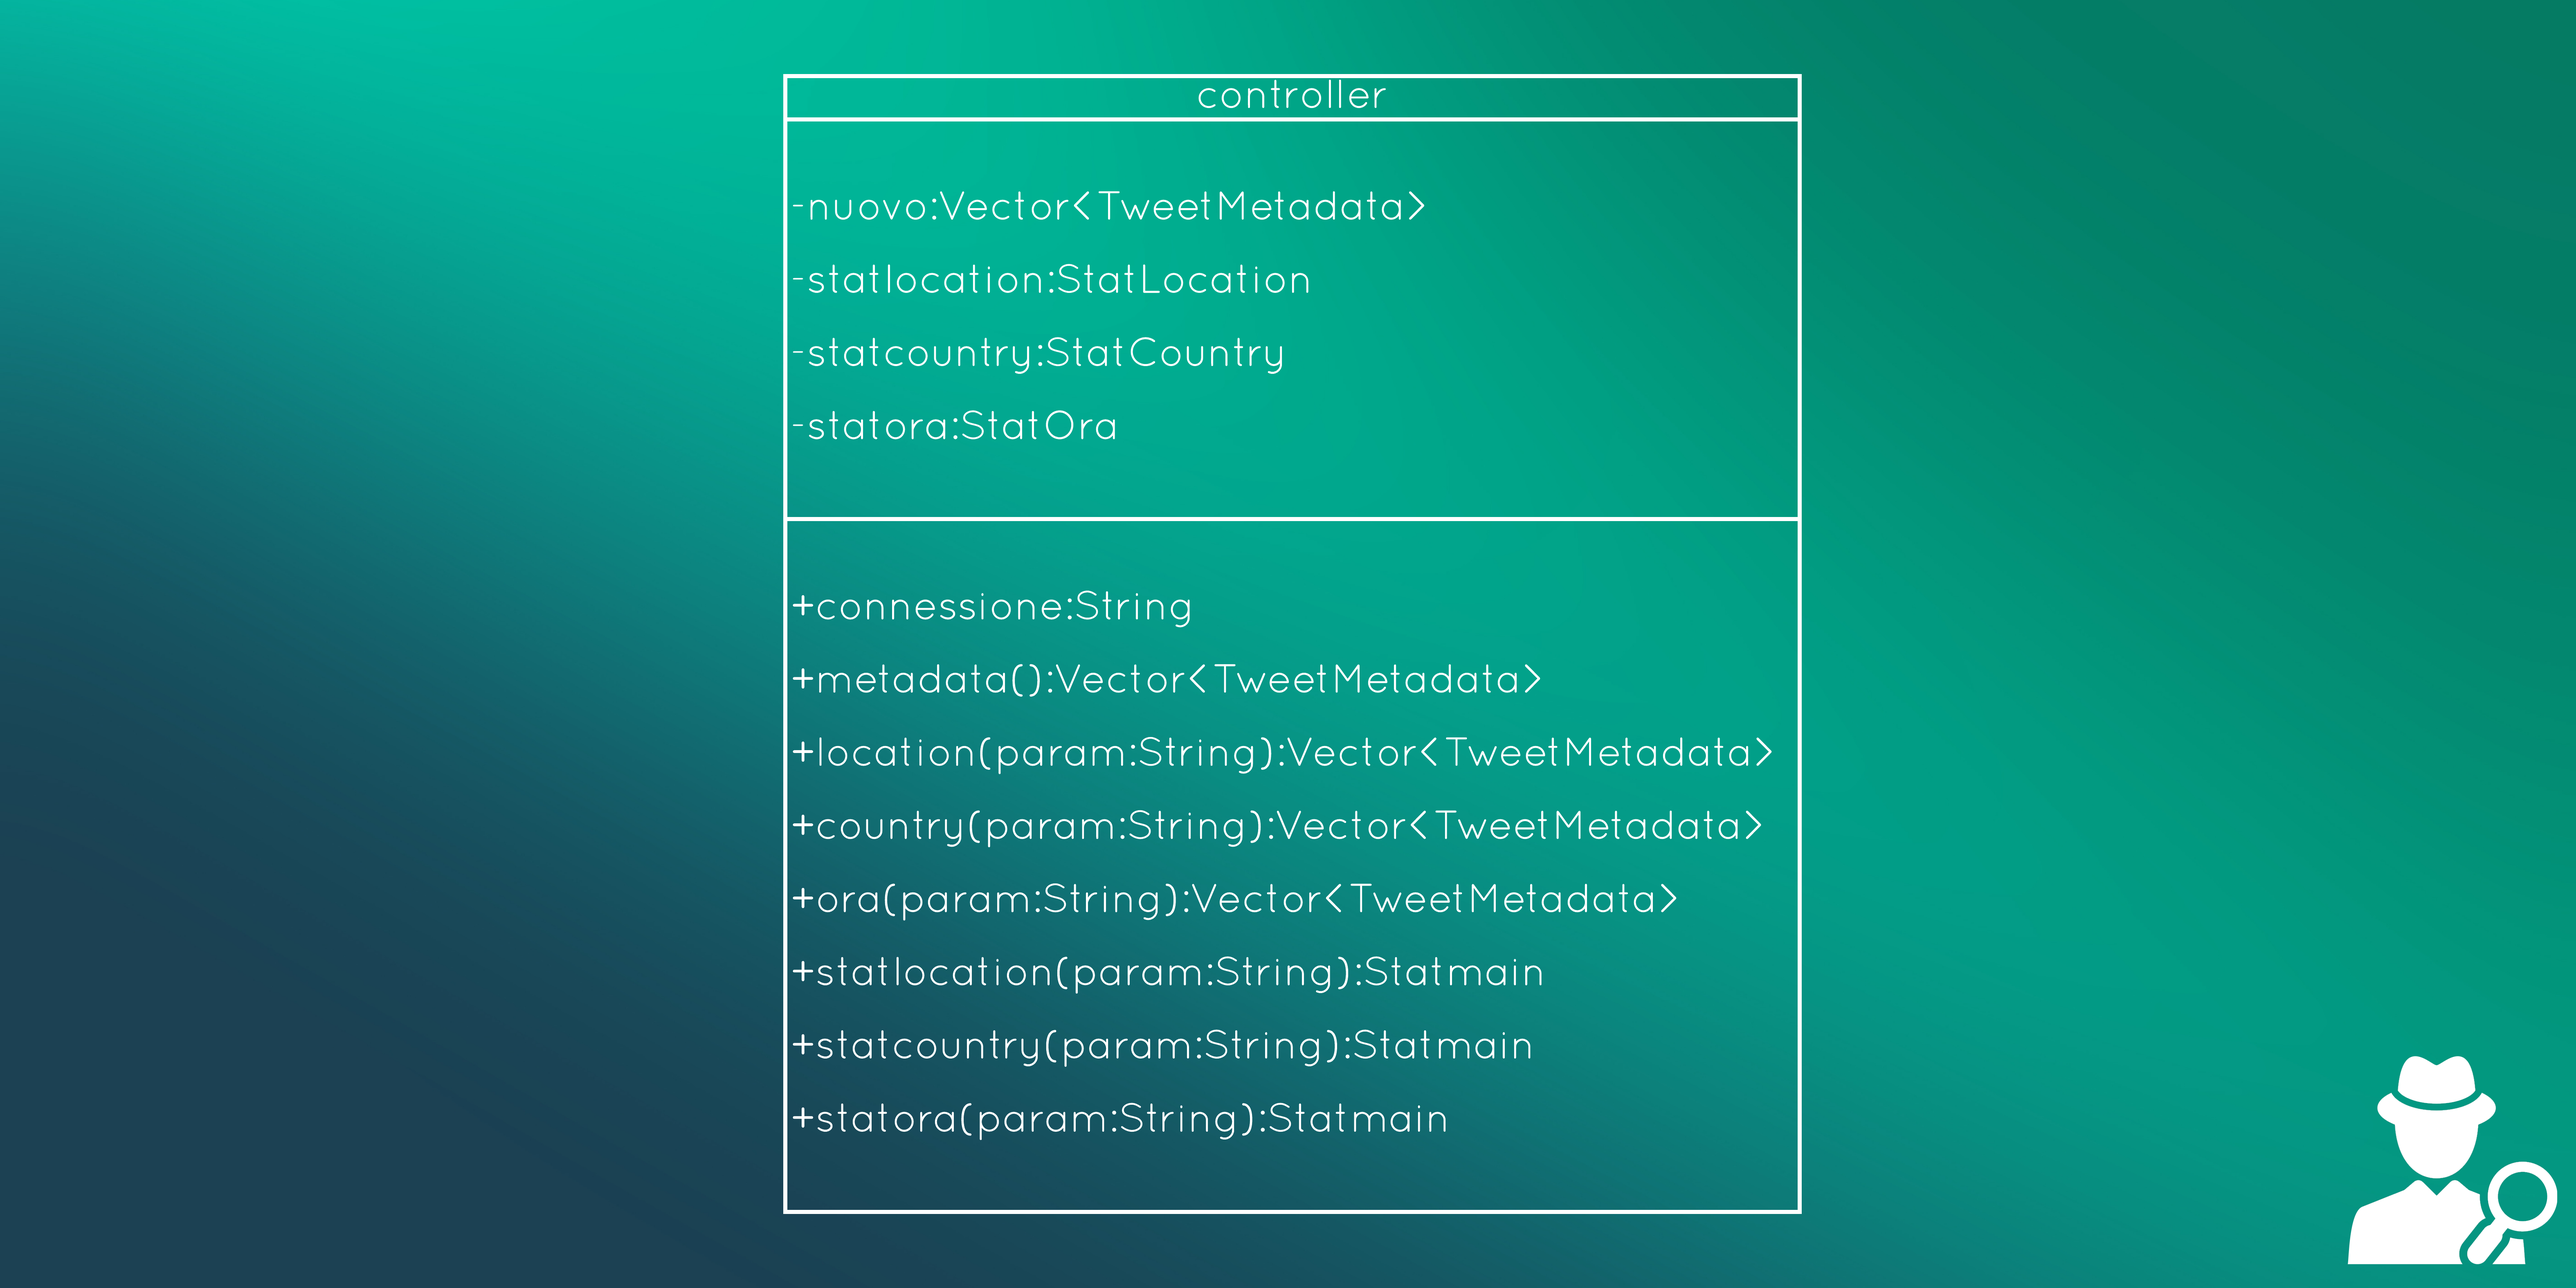
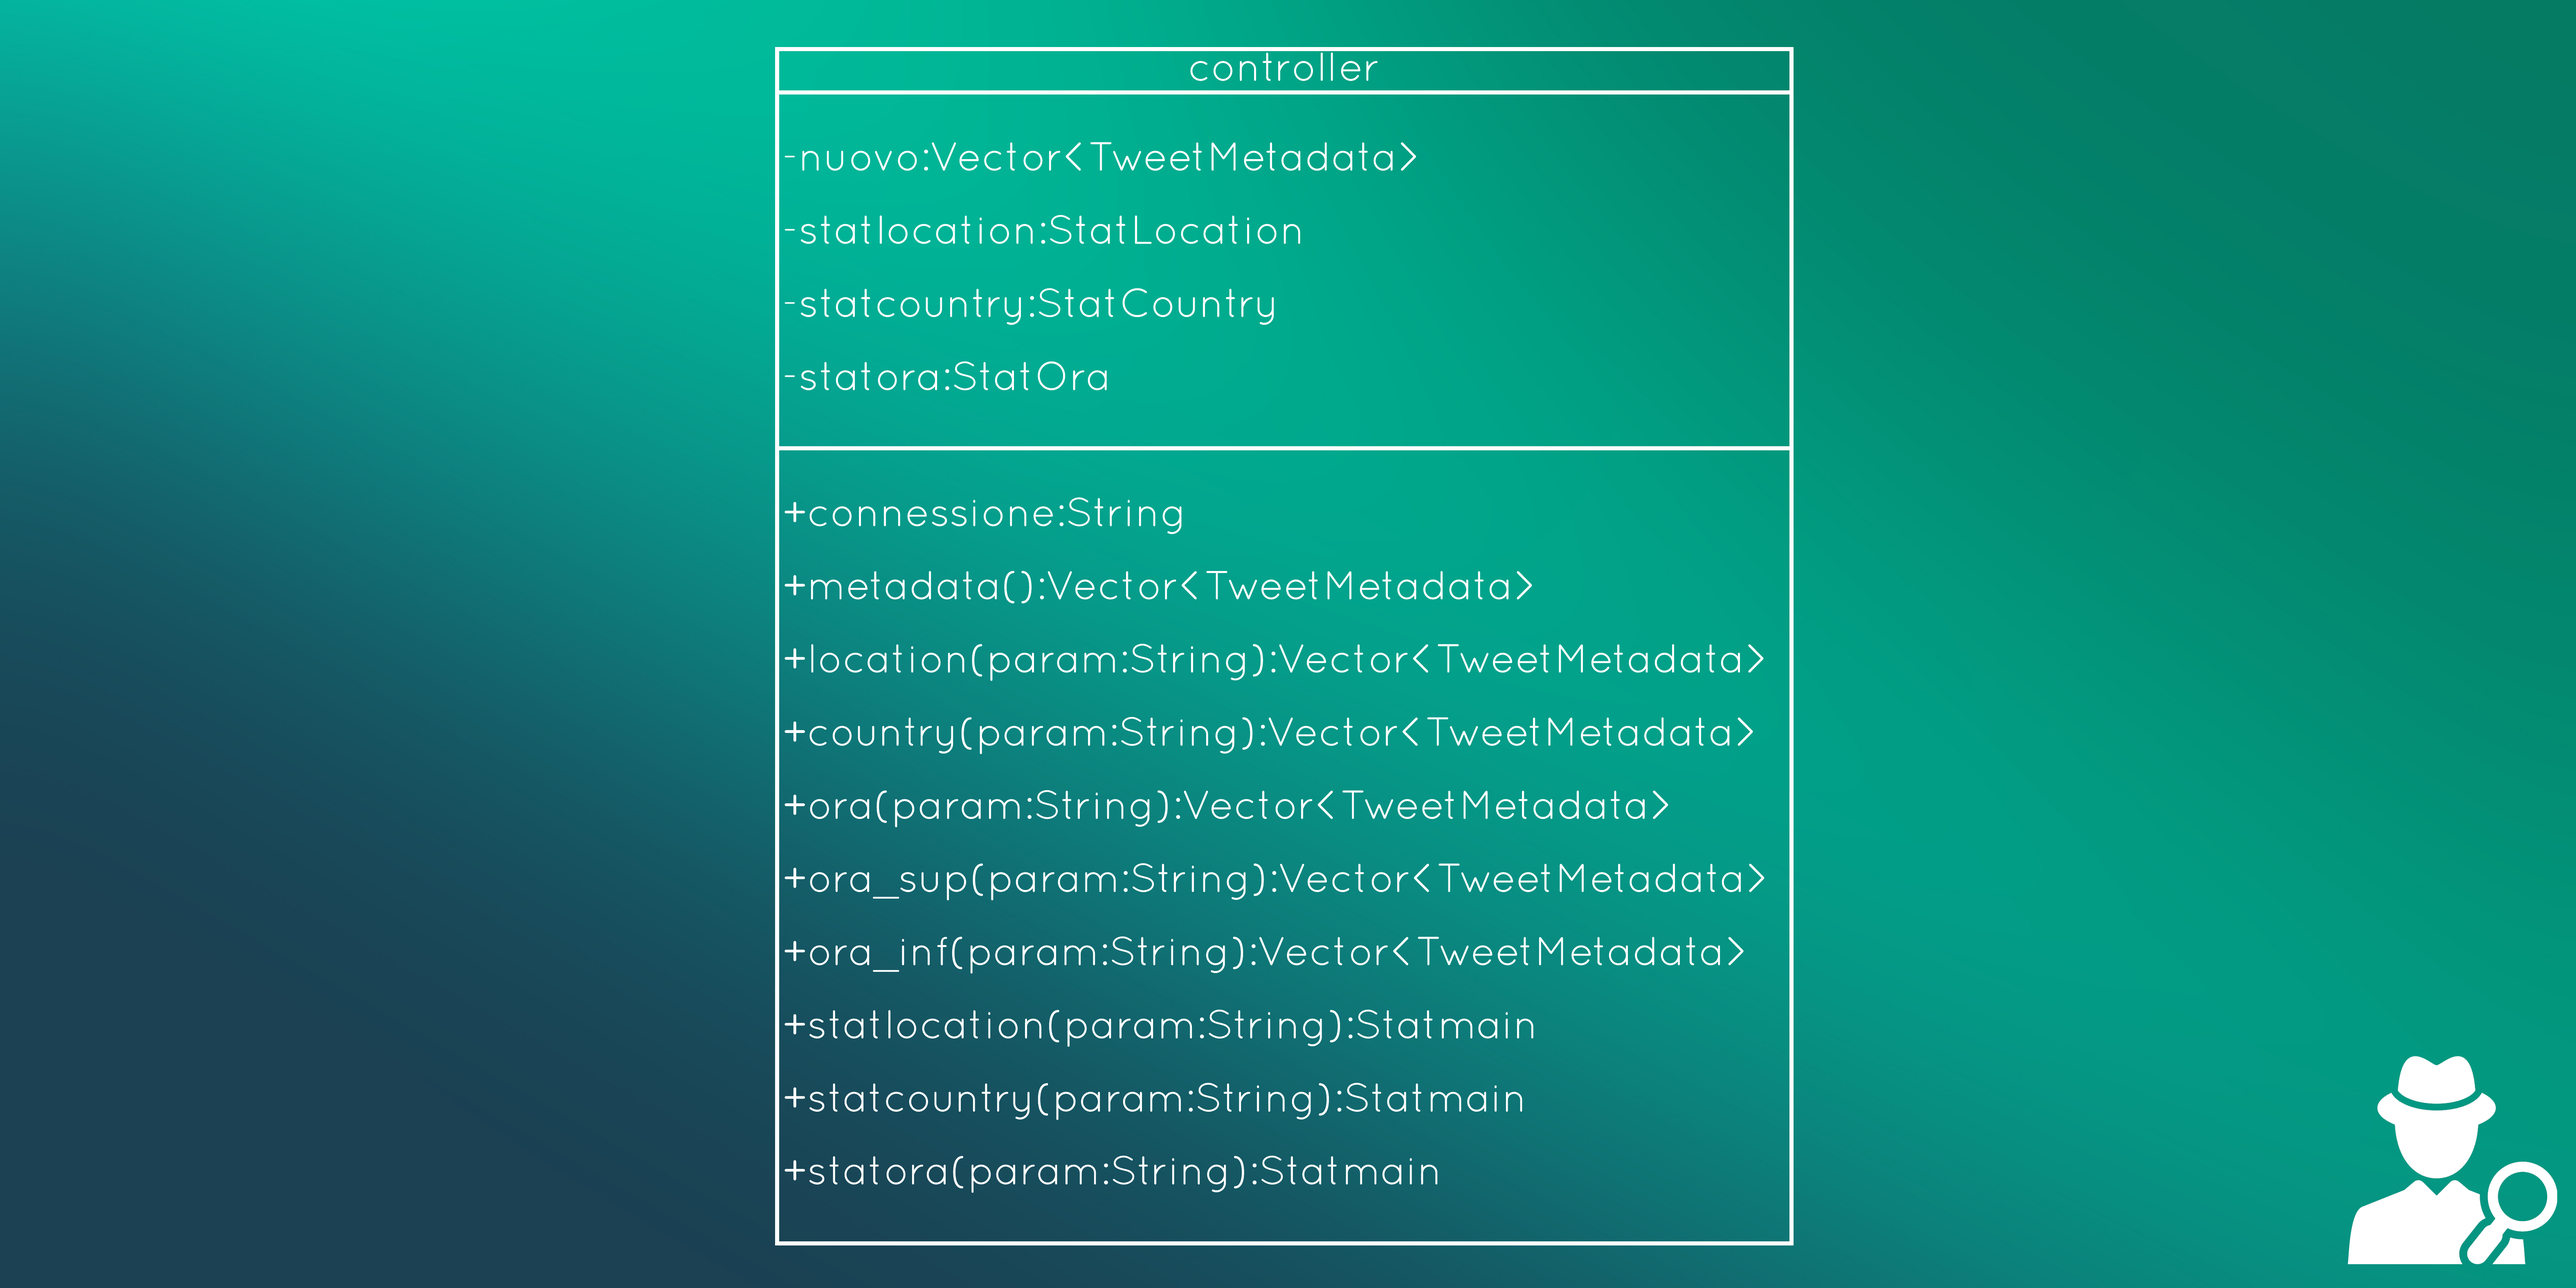
Aggiunto altri filtri e update uml

Changed region(s): [[0.2801, 0.0311, 0.7158, 0.9648]]

diff --git a/op_progetto/src/main/java/progetto_2019_2020/op_progetto/Filtri/FiltriOra.java b/op_progetto/src/main/java/progetto_2019_2020/op_progetto/Filtri/FiltriOra.java
@@ -29,6 +29,32 @@ public class FiltriOra {
         }
         return tweet_time;
     }
+    public Vector<TweetMetadata> get_tweet_greater(String a,Vector<TweetMetadata> t){
+        int x=Integer.parseInt(a);
+        int y;
+        for(int i=0;i<t.size();i++){
+            y=Integer.parseInt(t.get(i).getCreated_at().substring(11, 13));
+            if(x<=y){
+                TweetMetadata data= t.get(i);
+                tweet_time.add(data);
+                c++;
+            }
+        }
+        return tweet_time;
+    }
+    public Vector<TweetMetadata> get_tweet_smaller(String a,Vector<TweetMetadata> t){
+        int x=Integer.parseInt(a);
+        int y;
+        for(int i=0;i<t.size();i++){
+            y=Integer.parseInt(t.get(i).getCreated_at().substring(11, 13));
+            if(x>y){
+                TweetMetadata data= t.get(i);
+                tweet_time.add(data);
+                c++;
+            }
+        }
+        return tweet_time;
+    }
 
     public int getc (){
         return c;

diff --git a/op_progetto/src/main/java/progetto_2019_2020/op_progetto/Controller/controller.java b/op_progetto/src/main/java/progetto_2019_2020/op_progetto/Controller/controller.java
@@ -51,7 +51,14 @@ public class controller {
 
         return new FiltriOra().get_tweet_time(param, nuovo);
     }
-
+    @GetMapping("/ora_sup")
+    public Vector<TweetMetadata> ora_sup(@RequestParam(name = "param") String param) {
+        return new FiltriOra().get_tweet_greater(param, nuovo);
+    }
+    @GetMapping("/ora_inf")
+    public Vector<TweetMetadata> ora_inf(@RequestParam(name = "param") String param) {
+        return new FiltriOra().get_tweet_smaller(param, nuovo);
+    }
     @GetMapping("/statlocation")
     public Statmain statlocation(@RequestParam(name = "param") String param) {
         statlocation.get_StatFiltriLocation(param, nuovo);
